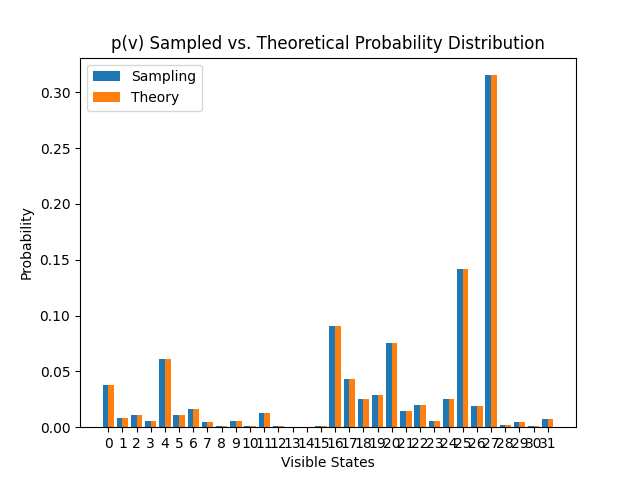
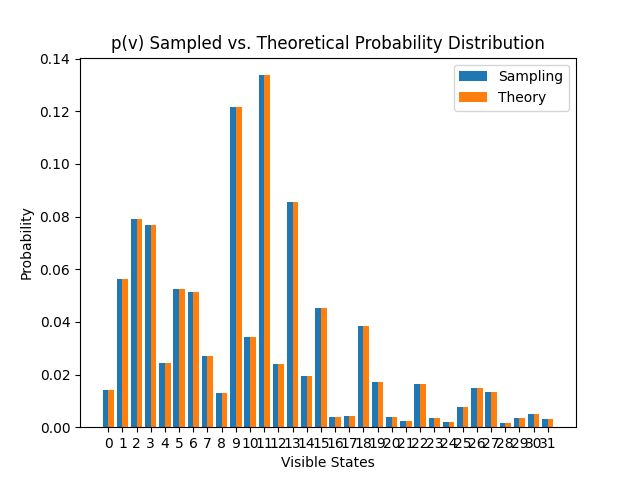
RBM Updates

diff --git a/rbm.py b/rbm.py
@@ -2,6 +2,8 @@ import numpy as np
 import matplotlib.pyplot as plt
 from mpl_toolkits.mplot3d import Axes3D
 import numba
+import torch
+import torch.utils.data
 
 @numba.njit
 def energy(v, h, W, a, b):
@@ -21,6 +23,24 @@ def energy(v, h, W, a, b):
         E += -b[j]*h[j]
     
     return E
+
+def freeEnergy(v,h,W,a,b):
+    Nv = len(v)
+    Nh = len(h)
+
+    F = 0
+
+    for i in range(2**Nh):
+        h = np.array([1 if format(i, "0" + str(Nh) + 'b')[k] == "1" else -1 for k in range(Nh)])
+        F += np.exp(-energy(v,h,W,a,b))
+
+    return -np.log(F)
+
+def freeEnergy2(v,h,W,a,b):
+    Nv = len(v)
+    Nh = len(h)
+
+    return -v @ a - np.sum(np.log(np.exp(-b-W.transpose() @ v) + np.exp(+b+W.transpose() @ v)))
 
 def objective(p, q):
     O = 0
@@ -144,11 +164,48 @@ def printProgressBar(iteration, total, prefix = '', suffix = '', decimals = 1, l
     if iteration == total: 
         print()
 
-# Training
-save = False
+# MNIST
 
-Nv = 3
+batch_size = 1
+train_loader = torch.utils.data.DataLoader(
+torch.utils.data.datasets.MNIST('./data',
+    train=True,
+    download = True,
+    transform = torch.utils.data.transforms.Compose(
+        [torch.utils.data.transforms.ToTensor()])
+     ),
+     batch_size=batch_size
+)
+myData=[]
+for idx, (data,target) in enumerate(train_loader):
+  myData.append(np.array(data.view(-1,784)).flatten())
+print(myData[0])
+print(np.shape(myData[0]))
+myData=np.matrix(myData)
+
+pic=np.copy(myData[0,:])
+pic=pic.reshape((28,28))
+plt.matshow(pic)
+plt.show()
+
+
+# Free energy
+""" Nv = 3
 Nh = 2
+
+count = 1000
+
+for i in range(count):
+    v,h,W,a,b = getRandomRBM(Nv, Nh)
+    
+    if np.abs(freeEnergy(v,h,W,a,b) - freeEnergy2(v,h,W,a,b)) > 1e-10:
+        print("Failed") """
+
+# Training
+""" save = True
+
+Nv = 5
+Nh = 3
 
 M = 64
 k = 1
@@ -159,7 +216,7 @@ prob_dist=prob_dist/np.sum(prob_dist)
 data=np.random.choice(range(0,2**Nv),p=prob_dist,size=100000)
 
 v,h,W,a,b = getRandomRBM(Nv, Nh)
-count = 1000
+count = 30
 
 c = 0
 
@@ -167,8 +224,11 @@ w_list = []
 a_list = []
 b_list = []
 o_list = []
+f_list = []
 
 for i in range(count):
+
+    f_list.append(freeEnergy(v,h,W,a,b))
 
     dW = np.zeros((Nv, Nh))
     da = np.zeros(Nv)
@@ -199,12 +259,6 @@ for i in range(count):
     a -= eta*da/M
     b -= eta*db/M
 
-    #w_list.append(np.sum(W)/(Nv*Nh))
-    #a_list.append(np.sum(a)/len(a))
-    #b_list.append(np.sum(b)/len(b))
-    #mat, v_dist, h_dist = fullProb(v,h,W,a,b)
-    #o_list.append(objective(v_dist, prob_dist))
-
     c += 1
     printProgressBar(i, count, prefix = 'Progress:', suffix = 'Complete', length = 50)
 
@@ -213,20 +267,26 @@ mat, v_dist, h_dist = fullProb(v,h,W,a,b)
 plt.figure(0)
 plt.plot(prob_dist)
 plt.plot(v_dist)
+plt.xlabel("Configuration")
+plt.ylabel("Probability")
+plt.title("RBM Model Learning Probability Distribution")
+plt.legend(("Data", "RBM"))
 
 if save:
-    plt.savefig("RBM_Images/tpvq.png")
+    plt.savefig("RBM_Images/tpvq.png")  
 
-# plt.figure(1)
-# plt.plot(w_list)
-# plt.plot(a_list)
-# plt.plot(b_list)
-# plt.legend(("W", "a", "b"))
+F_derv = np.diff(f_list)
 
-# plt.figure(2)
-# plt.plot(o_list)
+plt.figure(1)
+plt.plot(F_derv)
+plt.xlabel("Epoch")
+plt.ylabel("Change in Free Energy")
+plt.title("Free Energy")
 
-plt.show()
+if save:
+    plt.savefig("RBM_Images/tfe.png")  
+
+plt.show() """
 
 # Probability Distributions
 """ save = True
@@ -234,7 +294,7 @@ plt.show()
 Nv = 5
 Nh = 2
 
-k = 10
+k = 20
 
 v,h,W,a,b = getRandomRBM(Nv, Nh)
 
@@ -307,6 +367,8 @@ print("Theoretical Probabilities:", probs_theory)
 print("Sum of Theoretical Probabilities:", probs_theory.sum())
 
 # p(v,h)
+
+count = 100000
 probs_sampling = np.zeros((2**Nv, 2**Nh))
 
 for i in range(count):
@@ -355,6 +417,7 @@ print("Sampling Probabilities:", probs_sampling)
 print("Theoretical Probabilities:", probs_theory)
 print("Sum of Theoretical Probabilities:", probs_theory.sum())
 
+count = 100000
 # p(v)
 
 mat_sampling = probs_sampling.copy()

diff --git a/hopfield.py b/hopfield.py
@@ -52,6 +52,47 @@ def evolve(states, biases, weights):
     return step, E_list, states
 
 @numba.njit
+def evolve2(states, biases, weights, mid):
+
+    inter = np.zeros(1)
+
+    n = len(states)
+    measure = n
+    
+    step = 0
+    E_list = []
+
+    stay = True
+    while(stay):
+
+        #print("Step:", step )
+
+        i = np.random.randint(0, n)
+
+        if step % measure == 0:
+            E_list.append(Energy(states, biases, weights))
+
+        states[i] = 1 if sum(weights[i]*states) > biases[i] else -1
+
+        step += 1
+
+        stay = False
+        for j in range(n):
+            #print("j:", j)
+            if (1 if sum(weights[j]*states) > biases[j] else -1) != states[j]:
+                stay = True
+                #print("hi", j, stay)
+                break
+        
+        print(step)
+        if mid == step:
+            mid = -1
+            inter = states.copy()
+            print("hit")
+
+    return step, E_list, states, inter
+
+@numba.njit
 def evolveState(states, biases, weights):
 
     n = len(states)
@@ -263,7 +304,7 @@ plt.show()
  """
 # Fixing Images
 
-""" save = False
+save = True
 
 images = ["0000000000000100010000000000000000000000000010000000000000000001110000001000100001000001101000000001",
           "0001111000000111100000001100000000110000001111111000001100100000110000000011000000001100000000110000"]
@@ -279,13 +320,17 @@ states = removeLeft(image_arrays[0], 2)
 biases = np.ones(n)*0.5
 
 plt.figure(figsize=(10, 5))
-plt.subplot(1, 2, 1)
+plt.subplot(1, 3, 1)
 plt.title("Before")
 plt.matshow(stateToBoard(states), fignum=0)
 
-steps, energies, states = evolve(states, biases, weights)
+steps, energies, states, inter = evolve2(states, biases, weights, 100)
 
-plt.subplot(1, 2, 2)
+plt.subplot(1, 3, 2)
+plt.title("Intermediate")
+plt.matshow(stateToBoard(inter), fignum=0)
+
+plt.subplot(1, 3, 3)
 plt.title("After")
 plt.matshow(stateToBoard(states), fignum=0)
 if save:
@@ -293,7 +338,7 @@ if save:
 
 # Perturb
 
-states = perturb(image_arrays[0], 10)
+""" states = perturb(image_arrays[0], 10)
 
 plt.figure(figsize=(10, 5))
 plt.subplot(1, 2, 1)
@@ -308,8 +353,8 @@ plt.matshow(stateToBoard(states), fignum=0)
 if save:
     plt.savefig("Hopfield_Images/perturb_fix.png")
 
-plt.show() """
-
+plt.show()
+ """
 # Energies
 
 """ save = True

diff --git a/stuff.py b/stuff.py
@@ -1,0 +1,44 @@
+import numpy as np
+import matplotlib.pyplot as plt
+
+# Parameters
+a = 2.46e-10   # lattice spacing in meters (2.46 Å)
+# For plotting, we use reciprocal units in 1/Angstrom; 1 Å = 1e-10 m.
+a_angstrom = 2.46  # in Angstrom
+
+t = -3.033  # eV
+alpha = 0.129
+epsilon_p = 0.0  # eV
+
+# Define f(k): using k in inverse Angstrom units.
+def f_k(kx, ky):
+    return np.exp(-1j*ky*a_angstrom/np.sqrt(3)) + \
+           2*np.exp(1j*ky*a_angstrom/(2*np.sqrt(3))) * np.cos(kx*a_angstrom/2)
+
+# We choose a path from Gamma to K.
+# Here, Gamma = (0,0), K = (4pi/(3a_angstrom), 0)
+Kx = 4*np.pi/(3*a_angstrom)
+num_points = 200
+kx_vals = np.linspace(0, Kx, num_points)
+ky_vals = np.zeros_like(kx_vals)
+
+# Calculate the structure factor and w(k)
+f_vals = f_k(kx_vals, ky_vals)
+w_vals = np.abs(f_vals)
+
+# Compute the two band energies from Eq. (8.78) with epsilon_p = 0:
+# Note: With t < 0, the redefinition leads to energies:
+# E = ± (|t| w(k))/(1 ± alpha w(k)).
+E_plus = (abs(t)*w_vals) / (1 + alpha*w_vals)
+E_minus = -(abs(t)*w_vals) / (1 - alpha*w_vals)
+
+# Plot
+plt.figure(figsize=(8,6))
+plt.plot(kx_vals, E_plus, label=r'$E_+(k)$')
+plt.plot(kx_vals, E_minus, label=r'$E_-(k)$')
+plt.xlabel(r'$k_x$ (1/Å)')
+plt.ylabel('Energy (eV)')
+plt.title('Graphene $\pi$ Bands from $\Gamma$ to $K$')
+plt.legend()
+plt.grid(True)
+plt.show()

diff --git a/stuff2.py b/stuff2.py
@@ -1,0 +1,29 @@
+import numpy as np
+import matplotlib.pyplot as plt
+
+t = 1.0  # Energy scale
+k_vals = np.linspace(-np.pi/3, np.pi/3, 200)  # k in reduced BZ
+bands = np.zeros((len(k_vals), 3))  # Store 3 eigenvalues for each k
+
+for i, k in enumerate(k_vals):
+    # Construct the Hamiltonian
+    H = 2 * t * np.array([
+        [1, 0.5, 0.5 * np.exp(-3j * k)],
+        [0.5, -0.5, 0.5],
+        [0.5 * np.exp(3j * k), 0.5, -0.5]
+    ])
+    eigenvalues = np.linalg.eigvalsh(H)  # Hermitian eigenvalues
+    bands[i, :] = np.sort(eigenvalues)  # Sort energies
+
+# Plotting
+plt.figure(figsize=(8, 5))
+for band in range(3):
+    plt.plot(k_vals, bands[:, band], label=f"Band {band+1}")
+
+plt.xlabel("Wavevector $k$ (reduced BZ)")
+plt.ylabel("Energy $E(k)$")
+plt.title("Tight-binding bands for $\tau_3 = 5/3$")
+plt.axhline(y=0, color="gray", linestyle="--", alpha=0.5)
+plt.grid(True, alpha=0.3)
+plt.legend()
+plt.show()
